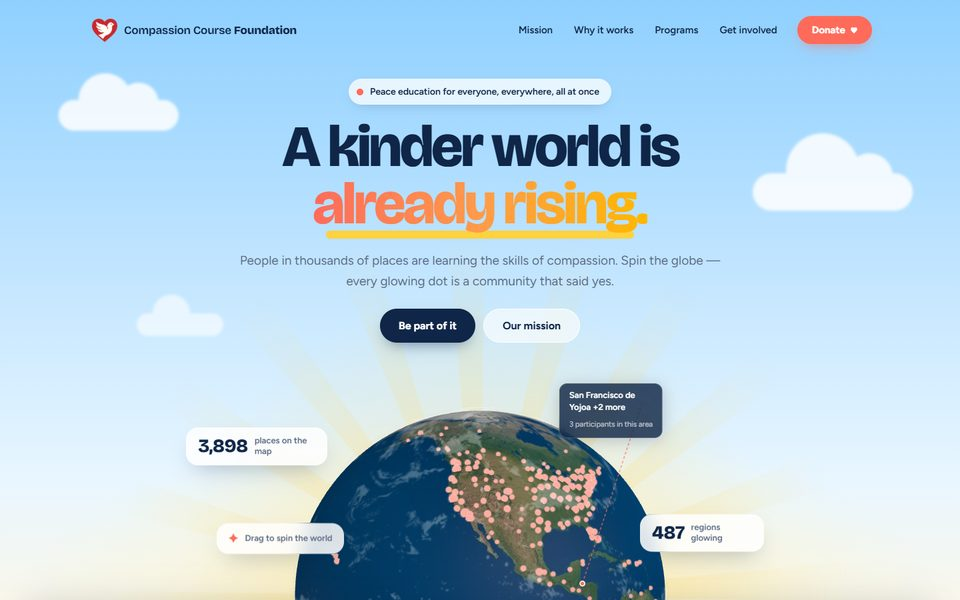
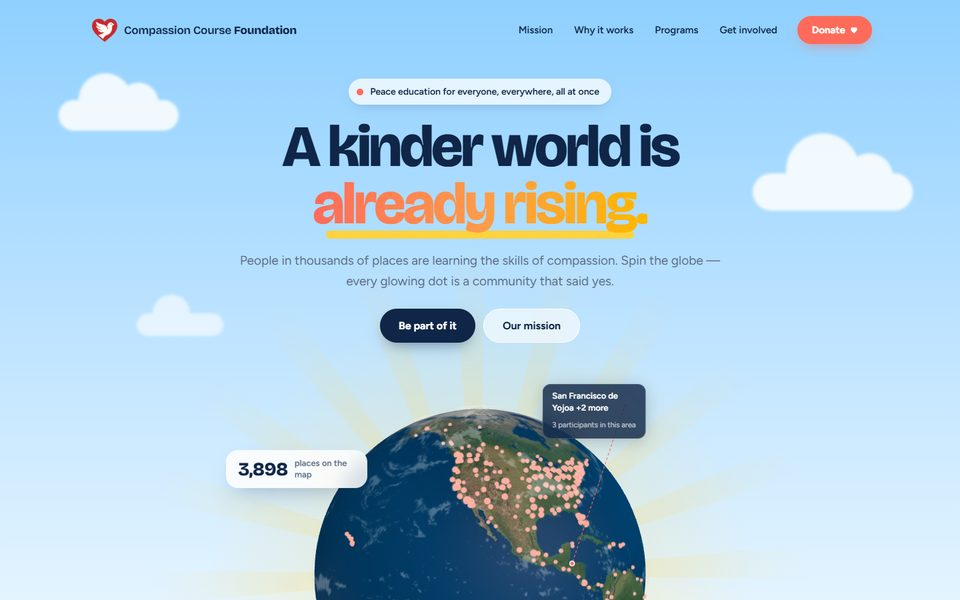
v3: show the whole globe in the hero instead of cropping it
The white section overlapped the bottom of the globe, slicing it flat and
clipping the stat chips and any tooltip whose dot sat below the cut. The
globe now sits fully inside the hero. Also stop the mission sun icon
overlapping text on phones.

Changed region(s): [[0.0312, 0.63, 0.9688, 1.0], [0.4062, 0.99, 0.4375, 1.0]]

diff --git a/v3/style.css b/v3/style.css
@@ -53,7 +53,7 @@ a { color: inherit; }
 .burger[aria-expanded="true"] span:nth-child(3) { transform: translateY(-5px) rotate(-45deg); }
 
 /* ---------- hero ---------- */
-.hero { position: relative; overflow: hidden; padding-top: 118px; text-align: center;
+.hero { position: relative; overflow: hidden; padding: 118px 0 64px; text-align: center;
   background: radial-gradient(ellipse 70% 50% at 50% 100%, #fff3c4 0%, rgba(255,243,196,0) 70%), linear-gradient(180deg, #8fd0ff 0%, var(--sky) 40%, var(--sky-2) 75%, #fff8e6 100%); }
 .clouds span { position: absolute; border-radius: 999px; background: #fff; filter: blur(2px); opacity: .85; animation: float 26s ease-in-out infinite alternate; }
 .clouds span::before, .clouds span::after { content: ''; position: absolute; background: #fff; border-radius: 50%; }
@@ -76,7 +76,7 @@ a { color: inherit; }
 .lede { font-size: clamp(17px, 1.4vw, 19px); color: var(--muted); max-width: 38em; margin: 0 auto 26px; }
 .cta { display: flex; gap: 12px; justify-content: center; flex-wrap: wrap; }
 
-.globe-stage { position: relative; width: min(760px, 94vw); margin: 0 auto -22%; z-index: 2; --g-glow: rgba(255, 220, 120, .45); --g-tip-bg: rgba(15, 38, 72, .82); }
+.globe-stage { position: relative; width: min(680px, 92vw); margin: 8px auto 0; z-index: 2; --g-glow: rgba(255, 220, 120, .45); --g-tip-bg: rgba(15, 38, 72, .82); }
 .sunburst { position: absolute; inset: -30%; border-radius: 50%; pointer-events: none;
   background: repeating-conic-gradient(from 0deg, rgba(255,214,90,.22) 0deg 6deg, transparent 6deg 18deg);
   -webkit-mask: radial-gradient(circle, #000 25%, transparent 65%); mask: radial-gradient(circle, #000 25%, transparent 65%); animation: spin 90s linear infinite; }
@@ -86,9 +86,9 @@ a { color: inherit; }
 .chip b { font: 800 28px/1 var(--display); color: var(--navy); letter-spacing: -.02em; }
 .chip span { font-size: 13px; font-weight: 600; color: var(--muted); line-height: 1.25; max-width: 7em; }
 .chip .ico { color: var(--coral); font-size: 18px; max-width: none; }
-.ch1 { left: -8%; top: 18%; }
-.ch2 { right: -6%; top: 34%; animation-delay: -2s; }
-.ch3 { left: -2%; top: 36%; animation-delay: -4s; }
+.ch1 { left: -6%; top: 24%; }
+.ch2 { right: -6%; top: 58%; animation-delay: -2s; }
+.ch3 { left: 2%; bottom: 12%; animation-delay: -4s; }
 .ch3 span:last-child { max-width: none; }
 @keyframes bob { 50% { transform: translateY(-10px); } }
 
@@ -229,5 +229,7 @@ h2 { font: 800 clamp(34px, 4.6vw, 62px)/1.02 var(--display); letter-spacing: -.0
   .chip { padding: 8px 12px; } .chip b { font-size: 20px; }
   .ch3 { display: none; }
   .news-card { padding: 34px 26px; }
-  .globe-stage { margin-bottom: -6%; }
+  .hero { padding-bottom: 20px; }
+  .tile-art { width: 72px; top: 26px; right: 26px; }
+  .t-mission { padding-top: 116px; }
 }
